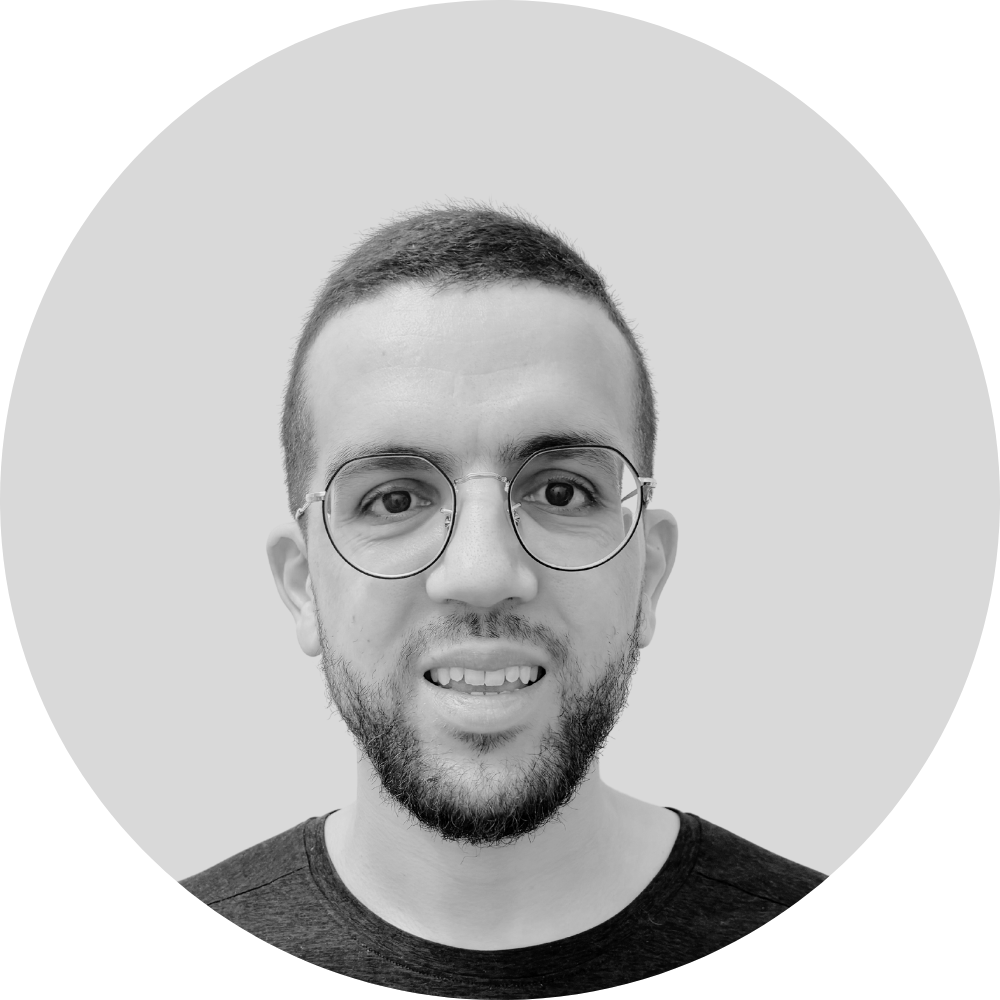
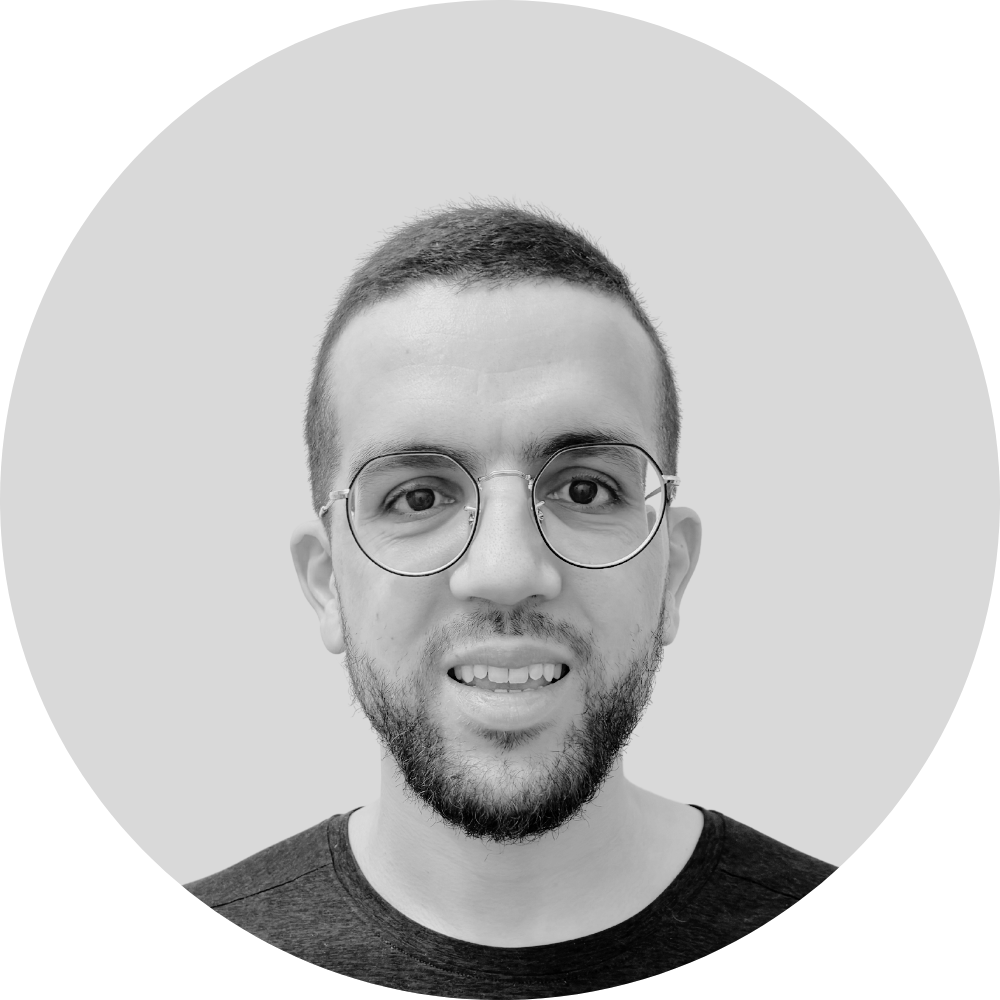
Update style.css and change profile picture

Changed region(s): [[0.186, 0.186, 0.837, 1.0], [0.558, 0.93, 0.589, 0.961]]

diff --git a/styles/style.css b/styles/style.css
@@ -413,31 +413,25 @@ footer {
 }
 .projects__content {
   width: 100%;
-  height: 50%;
+  height: 60%;
   padding: 50px;
 }
 .projects__content .swiper-slide {
-  background-color: rgb(250, 250, 250);
-  border-radius: 30px;
-  border: rgb(163, 163, 163) 1px solid;
   list-style-type: none;
   display: flex;
   flex-direction: column;
   justify-content: center;
   align-items: center;
-  gap: 15px;
 }
 .projects__content .swiper-slide img {
-  width: auto;
-  height: 50%;
-  border-radius: 30px;
-}
-@media (max-width: 767px) {
-  .projects__content .swiper-slide img {
-    height: 40%;
-  }
+  width: 100%;
+  max-width: 300px;
+  height: auto;
+  border-radius: 10px;
+  margin-bottom: 20px;
 }
 .projects__content .swiper-slide h3 {
+  margin: 10px 0;
   font-size: 1.5rem;
 }
 .projects__content .swiper-slide-btn-container {
@@ -445,19 +439,17 @@ footer {
   gap: 15px;
 }
 .projects__content .swiper-slide-btn-container button {
-  cursor: pointer;
   font-weight: 600;
-  transition: all 300ms ease;
-  width: 80px;
-  border-radius: 30px;
-  padding: 10px;
-  background: rgb(250, 250, 250);
-  border: rgb(163, 163, 163) 1px solid;
+  padding: 10px 20px;
+  margin: 5px;
+  border: none;
+  border-radius: 15px;
+  background-color: rgb(240, 240, 240);
+  transition: background-color 0.3s;
 }
 .projects__content .swiper-slide-btn-container button:hover {
   background-color: #353535;
   color: #fff;
-  border-color: transparent;
 }
 .projects__content .swiper-button-next,
 .projects__content .swiper-button-prev {

diff --git a/styles/style.scss b/styles/style.scss
@@ -453,31 +453,26 @@ footer {
 
   &__content {
     width: 100%;
-    height: 50%;
+    height: 60%;
     padding: 50px;
 
     .swiper-slide {
-      background-color: rgb(250, 250, 250);
-      border-radius: 30px;
-      border: rgb(163, 163, 163) 1px solid;
       list-style-type: none;
       display: flex;
       flex-direction: column;
       justify-content: center;
       align-items: center;
-      gap: 15px;
 
       img {
-        width: auto;
-        height: 50%;
-        border-radius: 30px;
-
-        @media (max-width: 767px) {
-          height: 40%;
-        }
+        width: 100%;
+        max-width: 300px;
+        height: auto;
+        border-radius: 10px;
+        margin-bottom: 20px;
       }
 
       h3 {
+        margin: 10px 0;
         font-size: 1.5rem;
       }
 
@@ -486,19 +481,17 @@ footer {
         gap: 15px;
 
         button {
-          cursor: pointer;
           font-weight: 600;
-          transition: all 300ms ease;
-          width: 80px;
-          border-radius: 30px;
-          padding: 10px;
-          background: rgb(250, 250, 250);
-          border: rgb(163, 163, 163) 1px solid;
+          padding: 10px 20px;
+          margin: 5px;
+          border: none;
+          border-radius: 15px;
+          background-color: rgb(240, 240, 240);
+          transition: background-color 0.3s;
 
           &:hover {
             background-color: #353535;
             color: #fff;
-            border-color: transparent;
           }
         }
       }
